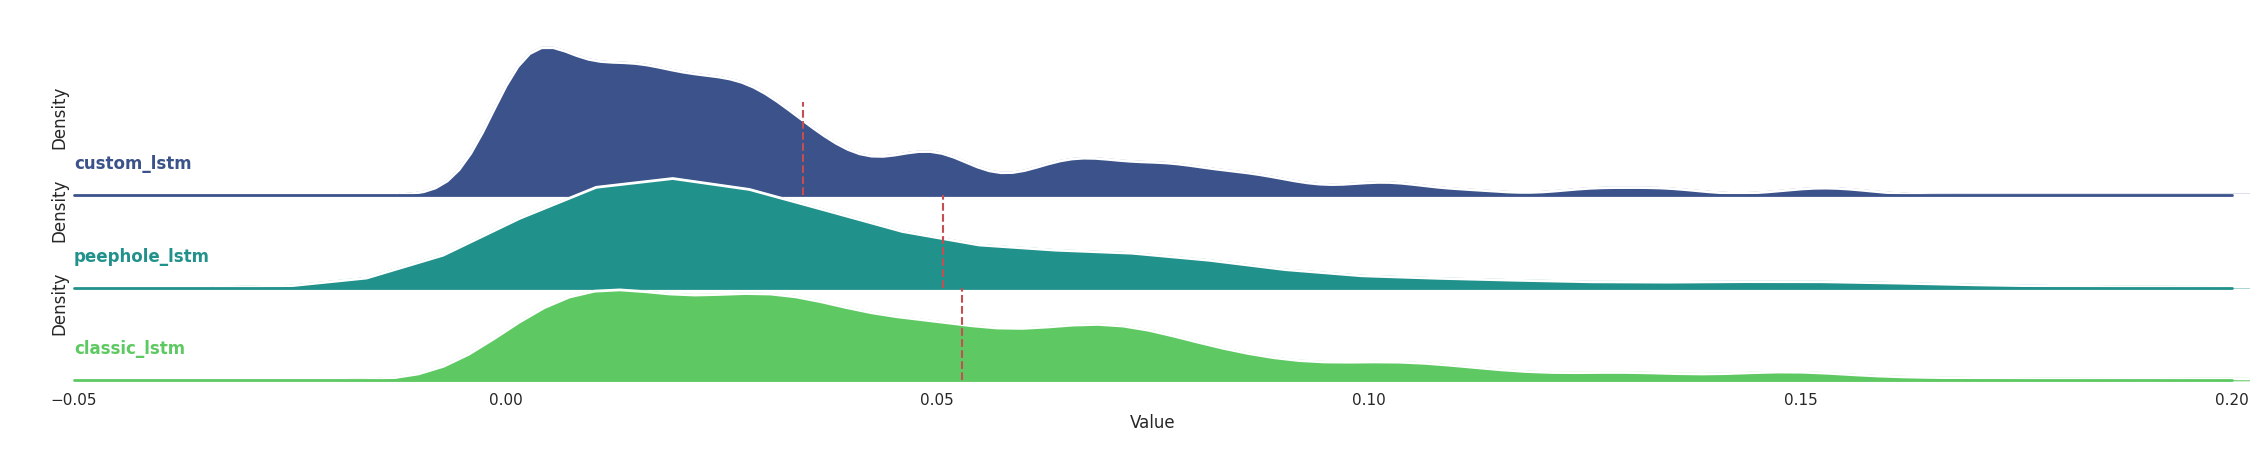
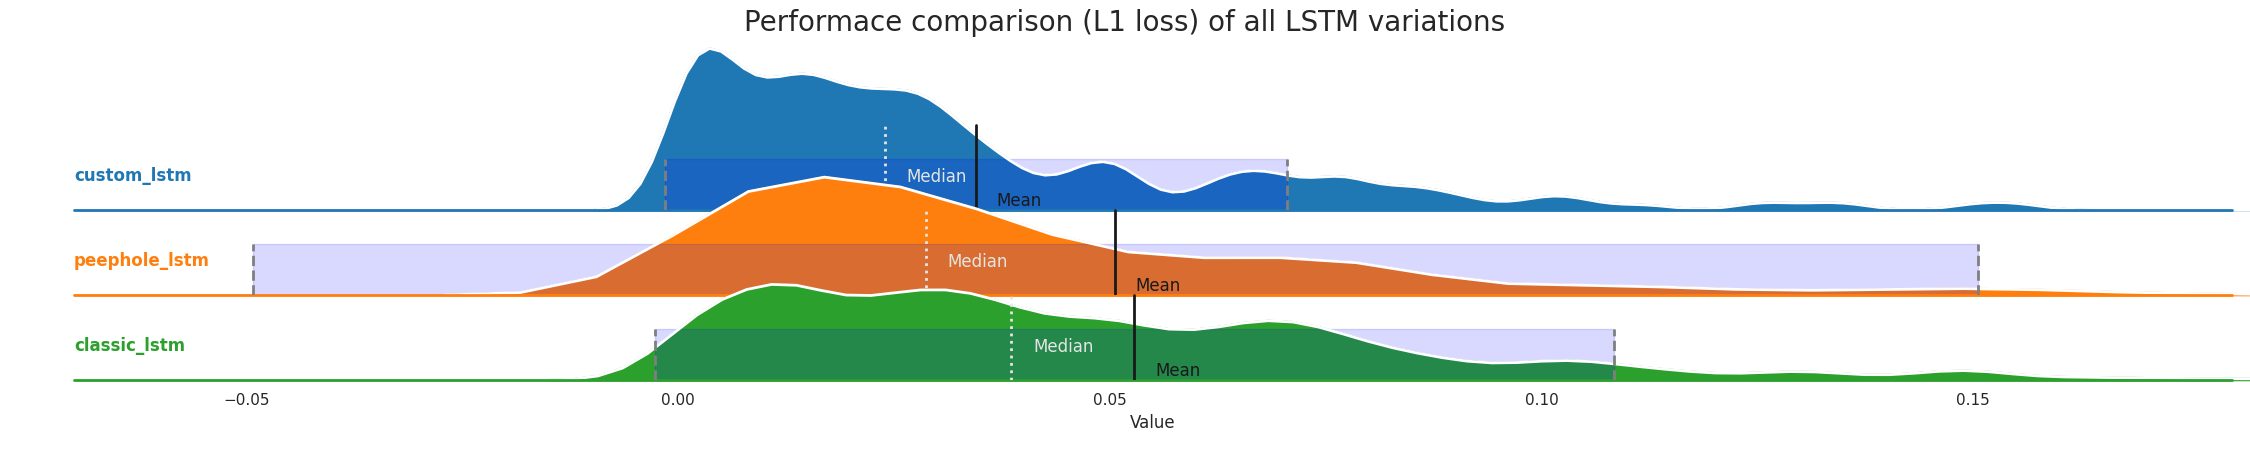
results

diff --git a/plotting/plot.py b/plotting/plot.py
@@ -41,16 +41,44 @@ def plot_ridge(df, filename, categories):
     with warnings.catch_warnings():
         warnings.simplefilter("ignore", category=UserWarning)
 
+        tab10_palette = sns.color_palette("tab10")
+        mod_tab10_palette = [color for i, color in enumerate(tab10_palette) if i != 3]
+
         sns.set(style="white", rc={"axes.facecolor": (0, 0, 0, 0)})
 
-        g = sns.FacetGrid(melted_df, row="Category", hue="Category", aspect=15, height=1.5, palette="viridis")
+        # g = sns.FacetGrid(melted_df, row="Category", hue="Category", aspect=15, height=1.5, palette="viridis")
+        g = sns.FacetGrid(melted_df, row="Category", hue="Category", aspect=15, height=1.5, palette=tab10_palette)
 
-        g.map(sns.kdeplot, "Value", bw_adjust=0.5, clip_on=False, fill=True, alpha=1, linewidth=1.5)
-        g.map(sns.kdeplot, "Value", clip_on=False, color="w", lw=2, bw_adjust=0.5)
+        g.map(sns.kdeplot, "Value", bw_adjust=0.4, clip_on=False, fill=True, alpha=1, linewidth=1.5)
+        g.map(sns.kdeplot, "Value", clip_on=False, color="w", lw=2, bw_adjust=0.4)
         g.map(plt.axhline, y=0, lw=2, clip_on=False)
 
         def plot_mean(data, **kwargs):
-            plt.axvline(data.mean(), ymin=0, ymax=0.6, color="r", linestyle="--")
+            mean = data.mean()
+            std_dev = data.std()
+            median = data.median()
+
+            mean_color = tuple(component * 0.2 for component in tab10_palette[7])
+            std_dev_color = tab10_palette[7]
+            median_color = tuple((component + (1-component) * 0.8) for component in tab10_palette[7])
+            
+            # Mean line
+            plt.axvline(mean, ymin=0, ymax=0.5, color=mean_color, linestyle="-", lw=2)
+            plt.text(mean + 0.005, 0.61, 'Mean', color=mean_color, ha='center')
+
+            # Standard deviation lines
+            plt.axvline(mean + std_dev, ymin=0, ymax=0.3, color=std_dev_color, linestyle="--", lw=2)
+            #plt.text(mean + std_dev, 0.61, '+1 Std Dev', color=std_dev_color, ha='center')
+            plt.axvline(mean - std_dev, ymin=0, ymax=0.3, color=std_dev_color, linestyle="--", lw=2)
+            #plt.text(mean - std_dev, 0.61, '-1 Std Dev', color=std_dev_color, ha='center')
+
+            # Median line
+            plt.axvline(median, ymin=0, ymax=0.5, color=median_color, linestyle=":", lw=2)
+            plt.text(median + 0.006, 4, 'Median', color=median_color, ha='center')
+
+            # Shading the area within one standard deviation
+            plt.axvspan(mean - std_dev, mean + std_dev,  ymin=0, ymax=0.3, color="blue", alpha=0.15)
+
 
         g.map(plot_mean, "Value")
 
@@ -60,17 +88,23 @@ def plot_ridge(df, filename, categories):
 
         g.map(label, "Value")
 
-    g.fig.subplots_adjust(hspace=-0.4)
+    g.fig.subplots_adjust(hspace=-0.5)
+    g.fig.suptitle("Performace comparison (L1 loss) of all LSTM variations", fontsize=20)
+    for ax in g.axes.flat:
+        ax.set_ylabel('')
     g.set_titles("")
     g.set(yticks=[])
     g.despine(bottom=True, left=True)
-    plt.xlim(-0.01,0.05)
+    plt.xlim(-0.07,0.18)
 
     create_dir(Path(PATH, "out/all_results"))
     plt.savefig(Path(PATH, "out/all_results", f"{filename}.png"))
 
 def plot_correlation_matrix(df, filename, categories):
     mean_df = df[["name"] + categories].groupby("name").mean()
+    # mean_df = mean_df.rename(columns={"spectral_entropy_psd": "spectral_entropy"})
+    # print(mean_df)
+    # new_categories = list(mean_df.columns)
     corr = mean_df[categories].corr()
 
     for category in categories:
@@ -82,8 +116,18 @@ def plot_correlation_matrix(df, filename, categories):
             avg_corr = (category_corr.sum().sum() - category_corr.shape[0]) / (category_corr.size - category_corr.shape[0])
             corr.loc[category, category] = avg_corr
 
+    corr = corr.rename(columns={"spectral_entropy_psd": "spectral_entropy"})
+    corr = corr.rename(index={"spectral_entropy_psd": "spectral_entropy"})
+    corr = corr.rename(columns={"spectral_entropy_fft": "fourier_entropy"})
+    corr = corr.rename(index={"spectral_entropy_fft": "fourier_entropy"})
+    print(corr)
+
     plt.figure(figsize=(14, 10))
-    sns.heatmap(corr, annot=True, fmt=".2f", cmap='coolwarm', square=True, linewidths=.5, vmin=-1, vmax=1)
+    spectral_cmap = sns.color_palette("Spectral", as_cmap=True)
+    # Reverse the colormap
+    reversed_spectral_cmap = spectral_cmap.reversed()
+    sns.heatmap(corr, annot=True, annot_kws={"size": 11}, fmt=".2f", cmap='coolwarm', square=True, linewidths=.5, vmin=-1, vmax=1)
+    # sns.heatmap(corr, annot=True, fmt=".2f", cmap=reversed_spectral_cmap, square=True, linewidths=.5, vmin=-1, vmax=1)
 
     plt.tight_layout()
 
@@ -272,11 +316,14 @@ def double_plot_linear_regressions(results, name, categories, path="results"):
         sns.set_style("darkgrid")
         warnings.simplefilter("ignore")
         sns.set_theme()
+        tab10_palette = sns.color_palette("tab10")
+        
         num_cat_lists = len(categories)
         rows = int(np.ceil(num_cat_lists / 2))
         fig, axs = plt.subplots(rows, 2, figsize=(16, 8))
 
         i = 0
+        j = 0
         for categories_n in categories:
             for category in categories_n:
                 if category in results.columns:
@@ -288,15 +335,20 @@ def double_plot_linear_regressions(results, name, categories, path="results"):
                         df.index.name = 'difficulty'
                         df = df.reset_index()
                     df = df.rename(columns={'difficulty': 'x'})
+                    color = tab10_palette[j % len(tab10_palette)]
+                    j = j + 1
+                    df["x"] = df["x"] / 100
+                    print(df)
                     sns.regplot(data=df, x="x", y=category, ax=axs[i//2][i%2], label=category, order=1,
-                                line_kws={"linewidth":1}, scatter_kws={"s":3})
+                                line_kws={"linewidth":1}, scatter_kws={"s":3}, color=color)
                 else:
                     warnings.warn(f"Column '{category}' does not exist in DataFrame.")
-            i=i+1;
+            i=i+1
+            j = 0
 
         for axs_ in axs:
             for ax in axs_:
-                ax.set_xlabel("Changing parameter")
+                ax.set_xlabel("Standard deviation of Noise")
                 ax.set_ylabel("Metric")
                 ax.legend()
         create_dir(Path(PATH, f"out/{path}"))

diff --git a/plot2.py b/plot2.py
@@ -1,0 +1,106 @@
+import seaborn as sns
+import matplotlib.pyplot as plt
+import pandas as pd
+import glob
+import re
+
+# Define the machine learning and method categories
+ml_categories = ["lstm", "dnn", "cnn"]
+method_categories = ["last_value", "regression", "arima", "knn"]
+
+# Path to the directory containing the CSV files
+directory_path = 'results/'
+
+# Pattern to match the CSV files starting with 'category'
+file_pattern = directory_path + 'category*.csv'
+
+# List to store all dataframes
+all_data = []
+
+# Iterate over each CSV file
+for file in glob.glob(file_pattern):
+    # Read the CSV file into a DataFrame
+    df = pd.read_csv(file)
+
+    # Extract the file name or category from the file path and clean it up
+    category_name = re.sub(r'category_|_\d+', '', file.split('/')[-1].replace('.csv', ''))
+    category_name = category_name.replace('_', ' ')
+
+    # Keep only the relevant columns
+    df = df[ml_categories + method_categories]
+    df = df.melt(var_name='Model', value_name='Performance')
+    df['Category'] = category_name
+
+    # Append to the list
+    all_data.append(df)
+
+# Combine all data into a single DataFrame
+combined_df = pd.concat(all_data)
+
+# Define the models
+models = combined_df['Model'].unique()
+
+# Generate a Seaborn color palette with a distinct color for each model
+palette = sns.color_palette("tab10", n_colors=len(models))
+
+# Update the model_colors dictionary to map each model to a color from the palette
+model_colors = {model: color for model, color in zip(models, palette)}
+
+# Calculate mean performance for each model within each category
+mean_performance = combined_df.groupby(['Category', 'Model'], as_index=False).mean()
+
+# Sort the models within each category by mean performance
+sorted_models = mean_performance.sort_values(by=['Category', 'Performance']).groupby('Category')['Model'].apply(list)
+
+# Initialize a large figure to plot all categories
+plt.figure(figsize=(20, 12))
+
+# Get unique categories
+categories = combined_df['Category'].unique()
+
+max_performance = mean_performance['Performance'].max()
+
+# Plot each category individually
+for i, category in enumerate(categories):
+    # Filter data for the category
+    category_data = combined_df[combined_df['Category'] == category].copy()
+
+    # Sort models in the order of performance
+    category_data['Model'] = pd.Categorical(category_data['Model'], categories=sorted_models[category], ordered=True)
+    category_data.sort_values(by='Model', inplace=True)
+
+    # Plot using the updated model_colors for each model
+    ax = plt.subplot(1, len(categories), i + 1)
+    barplot = sns.barplot(x='Model', y='Performance', data=category_data, 
+                          palette=[model_colors[model] for model in sorted_models[category]], ax=ax)
+
+    # Customize x-axis labels
+    plt.xticks(rotation=70, fontsize=10)
+    ax.set_ylim(0, max_performance * 1.11)
+
+    # Annotate bars with mean values
+    for bar in barplot.patches:
+        # Calculate the height to place the text: bar height + a small offset
+        text_height = bar.get_height() + 0.0008
+        # Annotate with the mean value
+        ax.text(bar.get_x() + bar.get_width() / 2, text_height, 
+                f'     {bar.get_height():.4f}', ha='center', va='bottom', fontsize=10, rotation=90)
+
+
+    plt.xlabel('Models')
+    plt.ylabel('Performance' if i == 0 else "")
+    plt.title(category)
+
+# Adjust subplots
+plt.subplots_adjust(wspace=0.3)
+
+# Adding overall title
+plt.suptitle('Performance (L1 loss) of Models Across Different Categories (Sorted by Performance)')
+
+# Creating a unified legend
+handles = [plt.Rectangle((0,0),1,1, color=model_colors[model]) for model in model_colors]
+plt.legend(handles, model_colors.keys(), title='Models', bbox_to_anchor=(1.05, 1), loc='upper left', fontsize=12)
+
+# Show the plot
+plt.show()
+

diff --git a/plot_all_data.py b/plot_all_data.py
@@ -4,18 +4,20 @@ import pandas as pd
 
 # csv_name = "all_data_1"
 # csv_name = "all_data_lstm"
-# csv_name = "category_repeating_500"
+csv_name = "category_repeating_500"
 # csv_name = "category_repeating_noise_100"
 # csv_name = "category_piecewise_linear_100"
 # csv_name = "category_stock_fetch_stock_data_1"
-csv_name = "category_multi_sinusoidal_100"
-# csv_name = "category_sinusoidal_noise_100"
+# csv_name = "category_multi_sinusoidal_100"
+csv_name = "category_sinusoidal_noise_100"
 
 # data, data_lookback, loss_func = get_data("data")
 # plot_all_ts(data)
 # print(len(data))
 
 results = pd.read_csv(f"results/{csv_name}.csv")
+results = results.rename(columns={"spectral_entropy_psd": "spectral_entropy"})
+results = results.rename(columns={"spectral_entropy_fft": "fourier_entropy"})
 
 # dnn_categories = ["dnn_xs", "dnn_m"]
 # cnn_categories = ["cnn_xs", "cnn_m"]
@@ -25,11 +27,11 @@ ml_categories = ["lstm", "dnn", "cnn"]
 method_categories = [ "last_value", "regression", "arima", "knn"]
 model_categories = ml_categories + method_categories
 characteristics_s = ["mad", "num_edges", "compression"]
-characteristics_e = ["sample_entropy", "perm_entropy", "spectral_entropy_psd", "spectral_entropy_fft"]
-characteristics_d = ["noise", "period", "period_complexity"]
-characteristics_t = ["mean_trend", "trend_complexity"]
-list_model_categories = [ml_categories, method_categories, characteristics_s, characteristics_e, characteristics_d, characteristics_t]
-plot_categories = model_categories + characteristics_s + characteristics_e + characteristics_d + characteristics_t
+characteristics_e = ["sample_entropy", "perm_entropy", "spectral_entropy", "fourier_entropy"]
+# characteristics_d = ["noise", "period", "period_complexity"]
+# characteristics_t = ["mean_trend", "trend_complexity"]
+list_model_categories = [ml_categories, method_categories, characteristics_s, characteristics_e]#, characteristics_d, characteristics_t]
+plot_categories = model_categories + characteristics_s + characteristics_e # + characteristics_d + characteristics_t
 print(results[["name"] + plot_categories])
 
 plot_model_comparisons(results, f"{csv_name}_scatter", plot_categories)

diff --git a/example_data.py b/example_data.py
@@ -3,7 +3,7 @@ from plotting.plot import plot_time_series, plot_return_distribution
 
 size = 1000
 seed = 40
-config = {"repeating": {"period": 10}, "noise": {"std_dev": 1}}
+# config = {"repeating": {"period": 10}, "noise": {"std_dev": 1}}
 # config = {"linear": {"slope": 1, "intercept": 0}}
 # config = {"polynomial": {"coefficients": [0,-1000,1],}} #quadratic
 # config = {"polynomial": {"coefficients": [0,525000,-1500,1],}} #cubic
@@ -16,7 +16,7 @@ config = {"repeating": {"period": 10}, "noise": {"std_dev": 1}}
 # config = {"piecewise_linear": {"num_seg": 10}}
 # config = {"piecewise_constant": {"num_seg": 5}} # seed 39 for val loss 0
 # config = {"uniform_piecewise_linear": {"num_seg": 10}}
-# config = {"trend": {"max_return": 0.1, "trend": 0.2}}
+config = {"trend": {"max_return": 0.1, "trend": 0.2}}
 # config = {
 #     "logistic": {"max_capacity": 200,"growth": 1,"midpoint": 500}, 
 #     "multi_sinusoidal": {"num_sin": 2, "min_value": 0, "max_value": 0.4},
